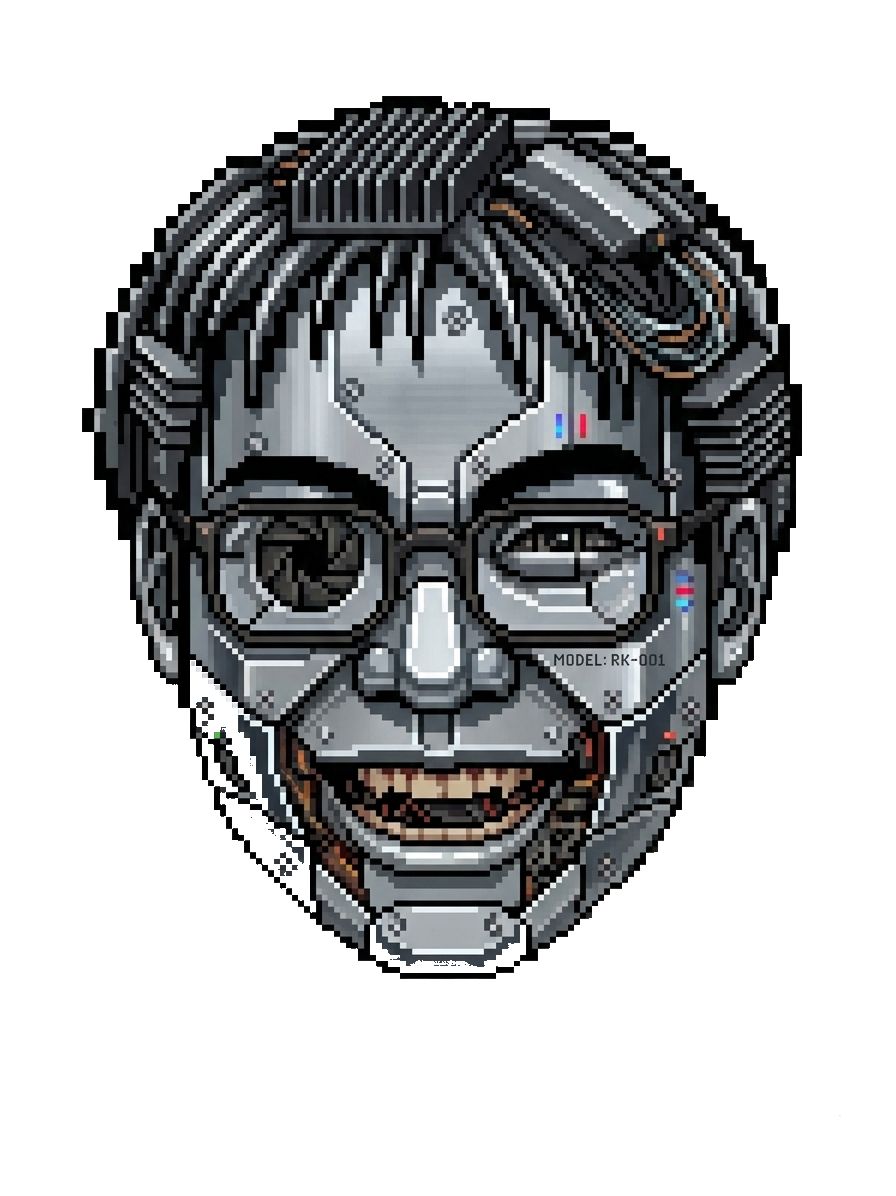
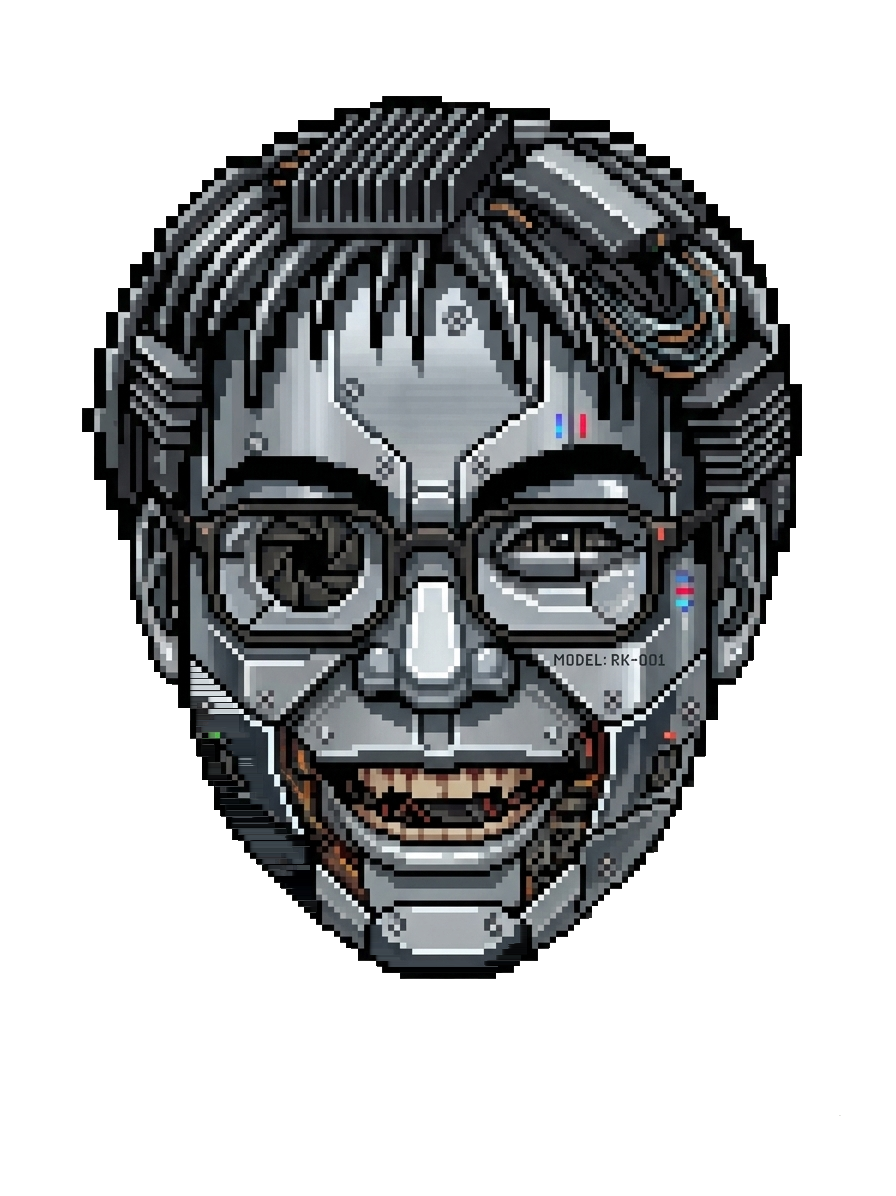
fix: 左頬の透明修正・エンドロール→リザルト遷移修正
- IMG_3786/3787: 行列単位の穴埋めで左頬の透明を修復
- エンドロール: CSSアニメーション即完了バグを修正（transformで初期位置を明示）
- エンドロール: タップでスキップ可能に

https://claude.ai/code/session_018VHUaEQUF4zj6uA4b24amE

diff --git a/index.html b/index.html
@@ -892,7 +892,7 @@
       position: absolute;
       width: 100%;
       text-align: center;
-      animation: endroll-scroll linear forwards;
+      transform: translateY(100vh);
       z-index: 1;
     }
     @keyframes endroll-scroll {
@@ -1156,15 +1156,26 @@
     el.classList.remove('hidden');
   }
 
+  let endrollTimerId = null;
   function showEndroll(onComplete) {
-    const DURATION = 14000; // スクロール時間(ms)
+    const DURATION = 14000;
     const track = document.getElementById('endrollTrack');
-    track.style.animation = 'none';
+    track.style.transition = 'none';
+    track.style.animation  = 'none';
+    track.style.transform  = 'translateY(100vh)';
     void track.offsetWidth;
-    track.style.animationDuration = DURATION + 'ms';
-    track.style.animation = `endroll-scroll ${DURATION}ms linear forwards`;
+    track.style.animation  = `endroll-scroll ${DURATION}ms linear forwards`;
     showScreen($endroll);
-    setTimeout(onComplete, DURATION + 400);
+    clearTimeout(endrollTimerId);
+    endrollTimerId = setTimeout(() => { endrollTimerId = null; onComplete(); }, DURATION + 400);
+    // タップでスキップ
+    const skip = () => {
+      $endroll.removeEventListener('pointerdown', skip);
+      clearTimeout(endrollTimerId); endrollTimerId = null;
+      track.style.animation = 'none';
+      onComplete();
+    };
+    $endroll.addEventListener('pointerdown', skip, { once: true });
   }
 
   /* ── BGM ── */
